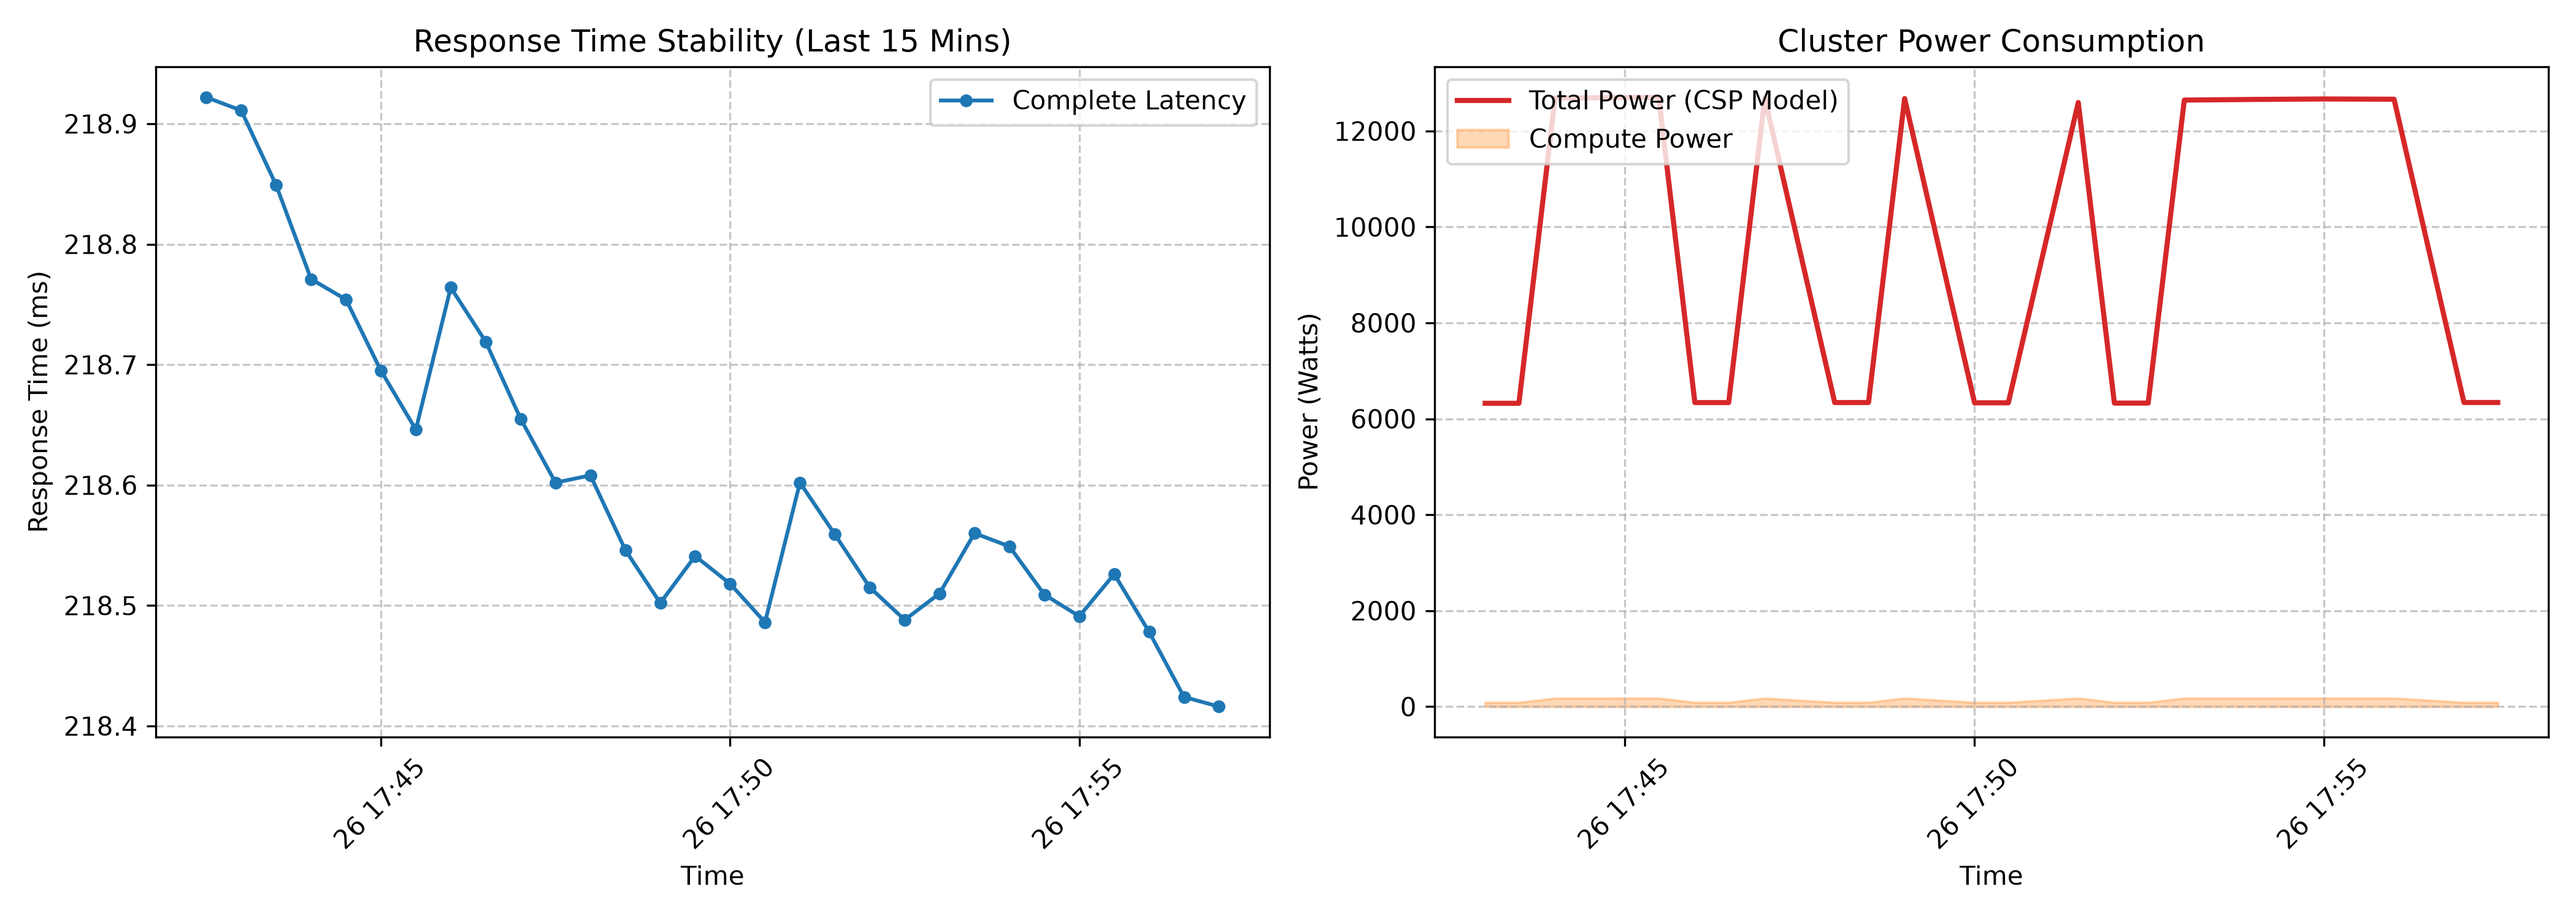
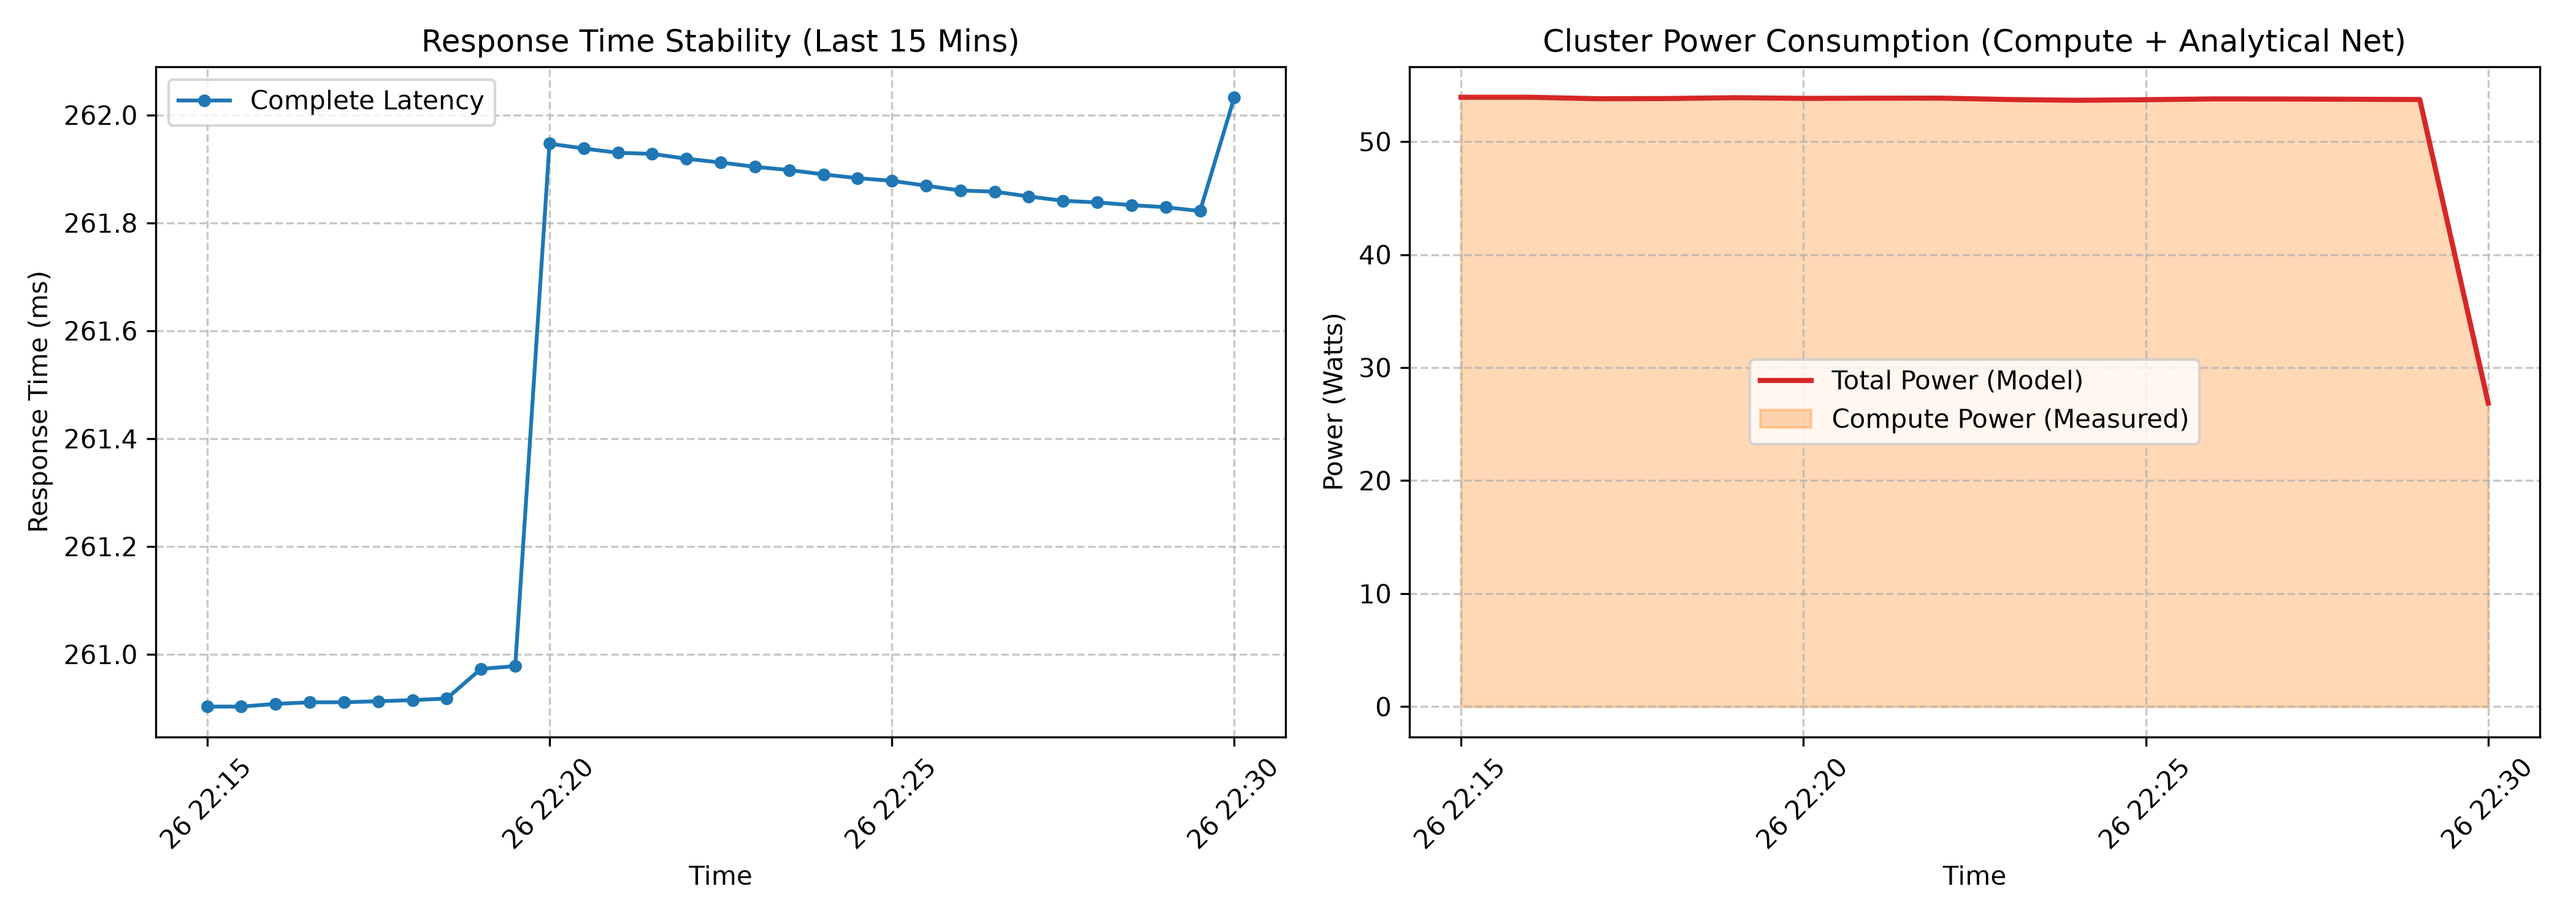
feat: New energy properties

diff --git a/services/python-placement/placement/src/gcpEnergyModel.py b/services/python-placement/placement/src/gcpEnergyModel.py
@@ -22,18 +22,18 @@ from functools import lru_cache
 
 # GCP energy model defaults (aligned with Google Environmental Report 2023)
 GCP_PUE = 1.10
-GCP_P_VCPU_IDLE_W = 1.0
-GCP_P_VCPU_ACTIVE_W = 8.0
+GCP_P_VCPU_IDLE_W = 0.71
+GCP_P_VCPU_ACTIVE_W = 4.26
 
 GCP_LAT_INTRAZONE_MS = 2.0
 GCP_LAT_INTERZONE_MS = 25.0
 
 GCP_FACTOR_INTRAZONE = 1.0
 GCP_FACTOR_INTERZONE = 1.5
-GCP_FACTOR_CROSSREGION = 2.0
+GCP_FACTOR_CROSSREGION = 2.5
 
 # CP-SAT works on integers; energies are tracked in deci-Watts and converted back to Watts in meta.
-ENERGY_SCALE = 10
+ENERGY_SCALE = 100
 
 
 def _parse_simple_properties(file_path: str) -> Dict[str, str]:
@@ -121,7 +121,7 @@ def link_factor(latency_ms: float, cfg: Dict[str, float]) -> float:
         cfg: Configuration dictionary from _load_energy_settings()
         
     Returns:
-        Energy factor (1.0 for intra-zone, 1.5 for inter-zone, 2.0 for cross-region)
+        Energy factor (1.0 for intra-zone, 1.5 for inter-zone, 2.5 for cross-region)
     """
     if latency_ms <= cfg["gcp.lat.intrazone_ms"]:
         return cfg["gcp.factor.intrazone"]
@@ -138,7 +138,7 @@ def link_factor_scaled(latency_ms: float, cfg: Dict[str, float]) -> int:
         cfg: Configuration dictionary from _load_energy_settings()
         
     Returns:
-        Scaled integer factor (10, 15, or 20 with default ENERGY_SCALE=10)
+        Scaled integer factor (100, 150, or 250 with default ENERGY_SCALE=100)
     """
     intrazone_ms = cfg["gcp.lat.intrazone_ms"]
     interzone_ms = cfg["gcp.lat.interzone_ms"]
